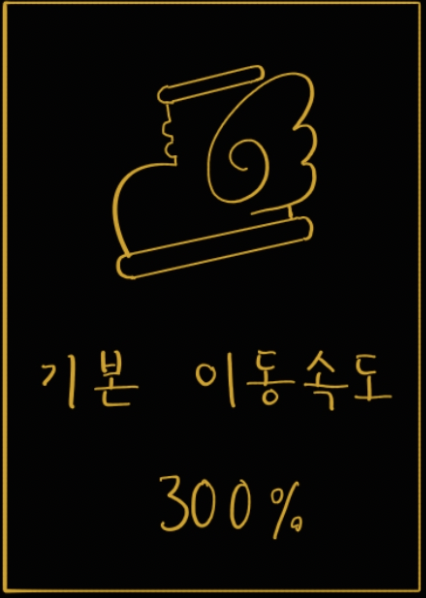
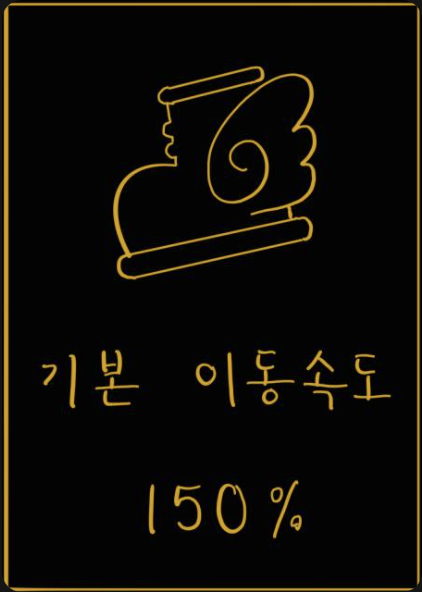
.

diff --git a/mygame1/game.js b/mygame1/game.js
@@ -8,8 +8,13 @@ const ctx = canvas.getContext('2d');
 const bossAppearAudio = new Audio('assets/BossAppear.mp3');
 const bossSkillKAudio = new Audio('assets/BossSkillK.mp3');
 const bossSkillLAudio = new Audio('assets/BossSkillL.mp3');
+
 const stage1bossBackgroundSound = new Audio('assets/Stage1bossBackgroundSound.mp3');
+stage1bossBackgroundSound.loop = true; // 🌟 1스테이지 보스 음악 무한 루프 설정
+
 const stage2bossBackgroundSound = new Audio('assets/Stage2bossBackgroundSound.mp3');
+stage2bossBackgroundSound.loop = true; // 🌟 2스테이지 보스 음악 무한 루프 설정
+
 const playerSkillKAudio = new Audio('assets/playerSkillK.mp3');
 const playerSkillLAudio = new Audio('assets/playerSkillL.mp3');
 
@@ -192,10 +197,9 @@ bind('guideBackBtn', () => {
     openScreen('menu');
 });
 
+// 🌟 메뉴 버튼 클릭 시 화면 전환 수동 대입 대신 완전히 정지 로직이 포함된 returnToMenu 공통 함수를 사용하도록 수정
 document.querySelectorAll('.menuBtn').forEach(btn=>btn.addEventListener('click',()=>{
-    mode='menu';
-    setHudVisibility(false); // 메뉴로 돌아가면 체력/점수창 끄기
-    openScreen('menu');
+    returnToMenu();
 }));
 
 // ==========================================
@@ -1702,6 +1706,12 @@ function resumeGame(){
 }
 
 function returnToMenu(){
+    // 🌟 메인 메뉴로 완전 이탈 시 재생 중이던 모든 보스 음악 즉시 제거
+    stage1bossBackgroundSound.pause();
+    stage1bossBackgroundSound.currentTime = 0;
+    stage2bossBackgroundSound.pause();
+    stage2bossBackgroundSound.currentTime = 0;
+
     mode = 'menu';
     guideReturnToPause = false;
     clearFade = 0;